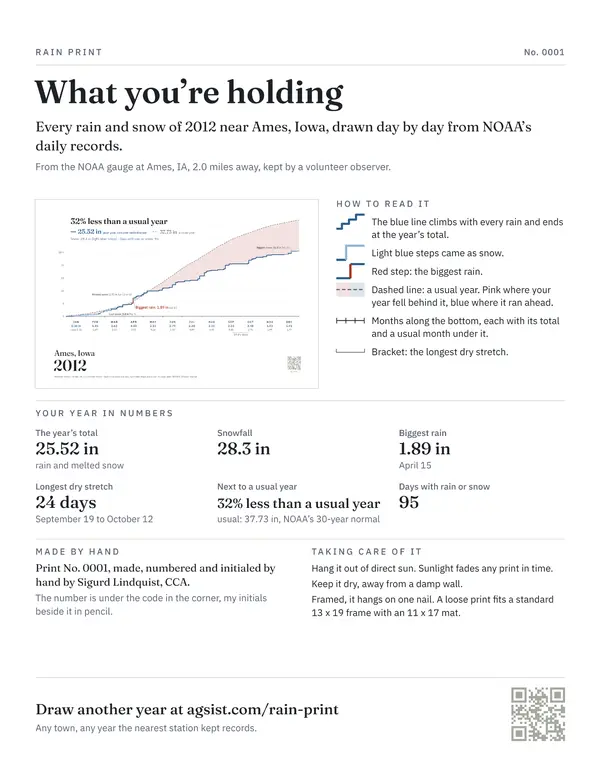
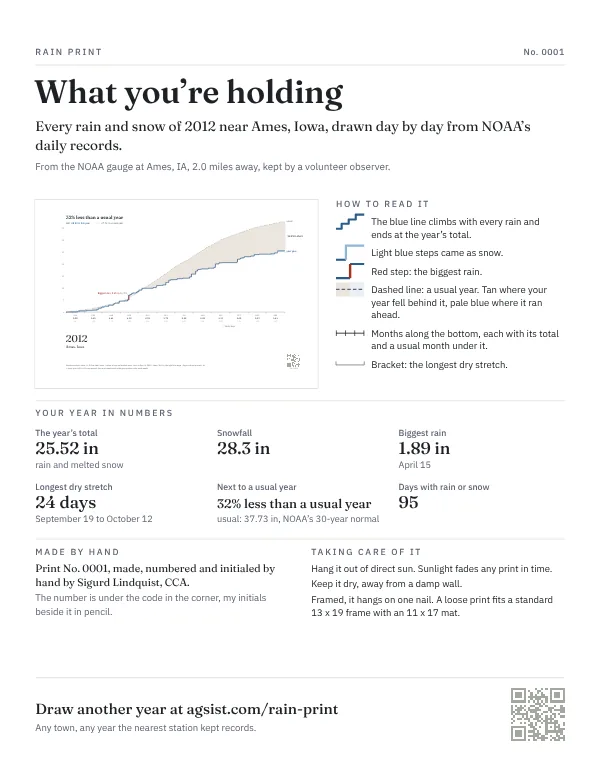
Rain Print letter key: tan behind, pale blue ahead, swatch from the print's band colors; sample letter redrawn

diff --git a/components/rain-print-art.js b/components/rain-print-art.js
@@ -46,8 +46,11 @@
   var C = {
     ink: '#1E2125', mute: '#5E6475', soft: '#8A8F98', guide: '#D6D9D2', grid: '#E4E6E1',
     rain: '#2B5C8A', bar: '#26313D', snowLine: '#8DB6D8', snowFill: '#AFCBE2', snowEdge: '#5F8DB3', snowInk: '#4F7FA6', snowGrid: '#DCE6EE',
-    accent: '#A8321E', dryBand: '#F3E2DF', wetBand: '#DDE5EC', rec: '#3F4651'
+    accent: '#A8321E', dryBand: '#ECE6DE', wetBand: '#EAEFF4', rec: '#3F4651'
   };
+  /* dryBand and wetBand are the Staircase's band colors (X.stone and X.ahead below),
+     the letter's key draws its swatch from them (2026-10-17, art panel: the key
+     said pink while the print had been tan since the band went warm stone). */
   var QR_INK = '#A4A89F', SERIAL_INK = '#8E9289';
   var SANS = "'IBM Plex Sans',system-ui,sans-serif", SERIF = "'Fraunces',Georgia,serif";
   var W0 = 1800, H0 = 1200;
@@ -775,7 +778,7 @@
   /* Crop stages (input.crop), frost marks and the temperature ribbon (input.temp), every year behind your year
      (input.hist, Staircase). The numbers are worked out before render (components/rain-print-extras.js); this
      file only places and draws them. */
-  var X = { ink: '#1F2328', date: '#8A8F98', fact: '#5B616B', grid: '#EEF0F2', usualM: '#A3A8B0', red: '#B23A2E', stone: '#ECE6DE', ahead: '#EAEFF4', thread: '#DDD8D0' };
+  var X = { ink: '#1F2328', date: '#8A8F98', fact: '#5B616B', grid: '#EEF0F2', usualM: '#A3A8B0', red: '#B23A2E', stone: C.dryBand, ahead: C.wetBand, thread: '#DDD8D0' };
   var CROP_INK = '#5B616B', GHOST_INK = '#CFCBC4', PLANT_H = 54;
   // the footnote voices: 12 u words, the date after them in gray (Sig's typographer list, 2026-10-17)
   var FACT = { size: 12, w: 400, fill: X.fact }, FACT_D = { size: 12, w: 400, fill: X.date };

diff --git a/components/rp-insert.js b/components/rp-insert.js
@@ -108,7 +108,7 @@
       key.push(['climb', 'The blue line climbs with every rain and ends at the year’s total.']);
       if (F.snowText) key.push(['snowStep', 'Light blue steps came as snow.']);
       if (F.wet) key.push(['wet', 'Red step: the ' + (F.wet.label === 'Wettest day' ? 'wettest day' : 'biggest rain') + '.']);
-      if (F.usual) key.push(['usual', 'Dashed line: a usual year. Pink where your year fell behind it, blue where it ran ahead.']);
+      if (F.usual) key.push(['usual', 'Dashed line: a usual year. Tan where your year fell behind it, pale blue where it ran ahead.']);
       key.push(['months', 'Months along the bottom' + (F.normals ? ', each with its total and a usual month under it.' : '.')]);
       if (F.dry) key.push(['dry', 'Bracket: the longest dry stretch.']);
     } else {
